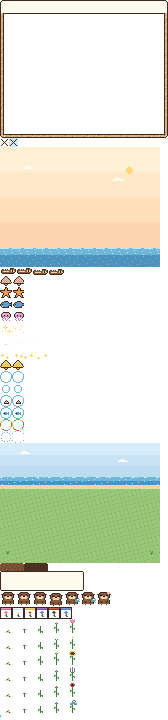
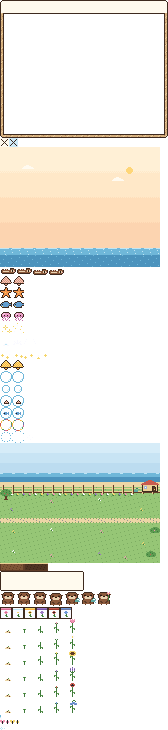
Garden: a smaller window and a livelier place
The garden opens at 3x (504x414 pt) instead of the games' 4x. The plot
gets a fence with a flower border, a shed and watering can, a little
tree, a gravel path between wooden raised beds, bushes and wildflower
clusters; clouds drift, the sea glints, two butterflies flutter, and
Pibbo potters about by himself when left alone.

diff --git a/Sources/Games/GardenGame.swift b/Sources/Games/GardenGame.swift
@@ -17,6 +17,16 @@ public struct GardenGame: Game {
     static let walkSpeed: Double = 70
     static let messageLength: Double = 2
     static let actionLength: Double = 1.2
+    /// Left alone this long, Pibbo wanders off to potter about.
+    static let wanderAfter: ClosedRange<Double> = 5...9
+    /// Spots he likes to stand: beside each bed, by the shed, on the path.
+    static let wanderSpots: [(x: Double, y: Double)] = {
+        var spots: [(x: Double, y: Double)] = plots.map { p in (x: Double(p.x - 14), y: Double(p.y - 12)) }
+        spots.append((x: 126, y: 40))
+        spots.append((x: 24, y: 102))
+        spots.append((x: 90, y: 76))
+        return spots
+    }()
 
     public let score = 0
     public let phase: GamePhase = .playing
@@ -34,18 +44,31 @@ public struct GardenGame: Game {
     private var action: (name: Int, until: Double)?  // frame of the action pose
     private var message: (key: GameText.Key, until: Double)?
     private var time: Double = 0
+    private var nextWander: Double = 6
+    private let random: (ClosedRange<Double>) -> Double
 
-    public init(store: GardenStore, clock: GardenClock = GardenClock(), weather: String? = nil, now: @escaping () -> Date = Date.init) {
+    public init(store: GardenStore, clock: GardenClock = GardenClock(), weather: String? = nil, now: @escaping () -> Date = Date.init,
+                random: @escaping (ClosedRange<Double>) -> Double = { Double.random(in: $0) }) {
         self.store = store
         self.clock = clock
         self.weather = weather
         self.now = now
+        self.random = random
         state = store.load()
     }
 
     public mutating func step(_ input: GameInput, dt: Double) {
         time += dt
-        if let tap = input.tap { handle(tap) }
+        if let tap = input.tap {
+            handle(tap)
+            nextWander = time + random(Self.wanderAfter)
+        }
+        if target == nil, action == nil, picking == nil, time >= nextWander {
+            // Nobody about: he potters off somewhere in the garden.
+            let index = min(Int(random(0...0.999) * Double(Self.wanderSpots.count)), Self.wanderSpots.count - 1)
+            target = Self.wanderSpots[index]
+            nextWander = time + random(Self.wanderAfter)
+        }
         if let (tx, ty) = target {
             let dx = tx - pibbo.x, dy = ty - pibbo.y
             let distance = (dx * dx + dy * dy).squareRoot()
@@ -110,6 +133,15 @@ public struct GardenGame: Game {
         var scene = GameScene(background: "background")
         scene.showsBest = false
         let at = now()
+        // Life that needs no state: clouds drifting, glints on the sea.
+        for (k, base) in [20.0, 110.0].enumerated() {
+            let drift: Double = base + time * (1.5 + Double(k))
+            let x = Int(drift.truncatingRemainder(dividingBy: 176)) - 12
+            scene.sprites.append(GameSprite("cloud", x: x, y: 6 + k * 10))
+        }
+        for (k, x) in [18, 57, 96, 128].enumerated() {
+            scene.sprites.append(GameSprite("glint", frame: Int(time * 1.5 + Double(k) * 0.7) % 3 == 0 ? 0 : 1, x: x, y: 31 + (k % 2) * 3))
+        }
         for (i, p) in Self.plots.enumerated() {
             let plot = state.plots[i]
             let wet = plot.map { GardenRules.wateredToday($0, now: at, clock: clock) } ?? false
@@ -118,6 +150,17 @@ public struct GardenGame: Game {
                 scene.sprites.append(GameSprite(plot.kind.rawValue, frame: GardenRules.stage(plot, now: at, clock: clock),
                                                 x: p.x + 4, y: p.y - 12))
             }
+        }
+        // Two butterflies fluttering over the beds.
+        for k in 0..<2 {
+            let phase = Double(k) * 2.4
+            let wide: Double = 50 * sin(time * 0.35 + phase)
+            let flit: Double = 8 * sin(time * 1.7 + phase)
+            let rise: Double = 18 * sin(time * 0.5 + phase * 1.3)
+            let flap: Double = 3 * sin(time * 4 + phase)
+            let x = Int(70 + wide + flit)
+            let y = Int(66 + rise + flap)
+            scene.sprites.append(GameSprite("butterfly", frame: k * 2 + Int(time * 7 + phase) % 2, x: x, y: y))
         }
         // Pibbo's frames: 0-1 idle, 2-3 walking, 4-5 watering, 6 holding a flower.
         let frame: Int

diff --git a/Sources/GameWindow/GameController.swift b/Sources/GameWindow/GameController.swift
@@ -119,7 +119,8 @@ private final class OpenGame {
         session = GameSession(game: game, best: best)
         savedBest = best
         self.art = art
-        let scale = Self.scale(for: art.chromeSize)
+        // The garden is a quiet place to visit: a smaller window than the games'.
+        let scale = Self.scale(for: art.chromeSize, largest: id == GardenGame.id ? 3 : 4)
         view = GameView(scale: scale, sheet: art.sheet)
         window = GameWindow(size: view.frame.size)
         window.contentView = view
@@ -150,9 +151,9 @@ private final class OpenGame {
     }
 
     /// The largest integer scale (4× at most, 2× at least) that fits the screen above the pool.
-    private static func scale(for size: CGSize) -> Int {
-        guard let visible = NSScreen.screens.first?.visibleFrame else { return 4 }
-        for scale in stride(from: 4, through: 2, by: -1) {
+    private static func scale(for size: CGSize, largest: Int) -> Int {
+        guard let visible = NSScreen.screens.first?.visibleFrame else { return largest }
+        for scale in stride(from: largest, through: 2, by: -1) {
             if size.width * CGFloat(scale) <= visible.width - 16 && size.height * CGFloat(scale) <= visible.height - 96 {
                 return scale
             }

diff --git a/Tools/generate_sprites.py b/Tools/generate_sprites.py
@@ -2821,39 +2821,106 @@ FLOWER_COLORS = {  # kind -> (main, dark, centre)
 
 
 def garden_background():
-    """Sky, a strip of sea, a sandy edge and a grassy plot."""
+    """Sky, a strip of sea, sand, a little fence, the shed, a stone path,
+    bushes and wildflowers on the grass. Clouds and glints are sprites (they move)."""
     img = Image.new("RGBA", (GAME_W, GAME_H), (0, 0, 0, 255))
     px = img.load()
     sky = [(214, 236, 248), (200, 228, 244), (188, 220, 240)]
     for y in range(GAME_H):
         for x in range(GAME_W):
-            if y < 34:
-                c = sky[min(y * 3 // 34, 2)]
-            elif y < 42:
-                c = PALETTE["W"] if y == 34 and (x // 3) % 4 == 0 else PALETTE["w"] if y < 38 else PALETTE["x"]
-                if (x * 7 + y * 11) % 31 == 0:
-                    c = PALETTE["W"]
-            elif y < 46:
+            if y < 30:
+                c = sky[min(y * 3 // 30, 2)]
+            elif y < 39:
+                c = PALETTE["W"] if y == 30 and (x // 3) % 4 == 0 else PALETTE["w"] if y < 34 else PALETTE["x"]
+            elif y < 44:
                 c = GARDEN_PALETTE["3"]
             else:
                 c = GARDEN_PALETTE["2"] if (x * 5 + y * 3) % 17 == 0 else GARDEN_PALETTE["1"]
             px[x, y] = c + (255,)
-    cloud = ["...XXX....", ".XXXXXXX..", "XXXXXXXXXX"]
-    img.alpha_composite(to_image(cloud, {"X": (250, 252, 255)}), (20, 8))
-    img.alpha_composite(to_image(cloud, {"X": (250, 252, 255)}), (118, 16))
-    for x0 in (6, 150):  # little tufts at the edges
-        img.alpha_composite(to_image(["k.k", ".kk", "kKk"], GARDEN_PALETTE), (x0, 108))
+    # the fence between the sand and the grass
+    for x in range(0, GAME_W):
+        for y in (45, 48):
+            px[x, y] = GARDEN_PALETTE["U"] + (255,)
+        px[x, y + 1] = PALETTE["D"] + (255,)
+    for x in range(2, GAME_W, 10):
+        for y in range(42, 51):
+            px[x, y] = GARDEN_PALETTE["U"] + (255,)
+            px[x + 1, y] = PALETTE["D"] + (255,)
+    # a border of little flowers along the fence
+    for i, x in enumerate(range(4, GAME_W - 24, 6)):
+        c = "fXm8"[i % 4]
+        for (dy, dx, ch) in ((51, 0, "k"), (52, 1, "K"), (50, 1, c), (51, 1, c), (51, 2, c), (52, 0, "k")):
+            px[x + dx, dy] = GARDEN_PALETTE[ch] + (255,)
+    # a gravel path between the two rows of beds
+    for y in range(75, 80):
+        for x in range(0, GAME_W):
+            edge = y in (75, 79)
+            c = "2" if edge and (x % 3 == 0) else "3"
+            if not edge and (x * 7 + y * 5) % 13 == 0:
+                c = "r"
+            px[x, y] = GARDEN_PALETTE[c] + (255,)
+    # a little tree on the left
+    tree = [
+        "....kkkk....",
+        "..kkkkKkkk..",
+        ".kkKkkkkkKk.",
+        "kkkkkkKkkkkk",
+        "kKkkMkkkkKkk",
+        ".kkkkkkMkkk.",
+        "..kkKkkkkk..",
+        "....kDDk....",
+        ".....DD.....",
+        ".....DD.....",
+        "....DDDD....",
+    ]
+    img.alpha_composite(to_image(tree, GARDEN_PALETTE), (0, 46))
+    # the shed, top right, with a watering can beside it
+    shed = [
+        ".......MMMM.......",
+        ".....MMMMMMMM.....",
+        "...MMMMMMMMMMMM...",
+        ".MMMMMMMMMMMMMMMM.",
+        "MMMMMMMMMMMMMMMMMM",
+        ".oUUUUUUUUUUUUUUo.",
+        ".oUzzzUUUUUoooUUo.",
+        ".oUzXzUUUUUoDDoUo.",
+        ".oUzzzUUUUUoDDoUo.",
+        ".oUUUUUUUUUoDmoUo.",
+        ".oUUUUUUUUUoDDoUo.",
+        ".oooooooooooooooo.",
+    ]
+    img.alpha_composite(to_image(shed, GARDEN_PALETTE), (141, 37))
+    img.alpha_composite(to_image(["..GG.", ".g..g", "gggg.", "gggg."], GARDEN_PALETTE), (134, 45))
+    # bushes at the right edge
+    bush = ["...kkkk...", ".kkkKkkkk.", "kkkkkkKkkk", "kKkkfkkkkk", "kkkkkkkKkk", ".kkKkkkkk."]
+    img.alpha_composite(to_image(bush, GARDEN_PALETTE), (150, 84))
+    img.alpha_composite(to_image([r.replace("f", "M") for r in bush], GARDEN_PALETTE), (146, 108))
+    # clusters of wildflowers away from the beds and the path
+    for (x, y, c) in ((50, 58, "f"), (98, 56, "X"), (140, 66, "m"), (10, 66, "8"), (50, 86, "X"), (100, 88, "f"),
+                      (142, 100, "m"), (50, 112, "f"), (98, 110, "8"), (12, 108, "X"), (124, 114, "f"), (12, 88, "m")):
+        for dx, dy in ((0, 0), (2, 1), (1, -1)):
+            px[x + dx, y + dy] = GARDEN_PALETTE[c] + (255,)
+        px[x + 1, y + 1] = GARDEN_PALETTE["K"] + (255,)
     return img
 
 
 def garden_soil(wet):
+    """A raised bed: wooden planks round the soil."""
     a, b = ("6", "7") if wet else ("4", "5")
     rows = []
     for r in range(8):
-        row = "".join(b if (c * 3 + r * 5) % 7 == 0 else a for c in range(24))
         if r == 0:
-            row = "." + row[1:-1] + "."
-        rows.append(row)
+            rows.append("U" * 24)
+        elif r == 7:
+            rows.append("D" * 24)
+        else:
+            rows.append("D" + "".join(b if (c * 3 + r * 5) % 7 == 0 else a for c in range(22)) + "D")
+    return to_image(rows, GARDEN_PALETTE)
+
+
+def garden_butterfly(color, open_):
+    rows = [f"{color}{color}.{color}{color}", f"{color}{color}q{color}{color}", f".{color}q{color}.", "..q.."] if open_ else \
+           ["..q..", f".{color}q{color}.", f".{color}q{color}.", "..q.."]
     return to_image(rows, GARDEN_PALETTE)
 
 
@@ -2953,6 +3020,10 @@ def garden_items():
              ("seeds", [garden_seed_packet(k) for k in FLOWER_COLORS])]
     items += [(kind, [garden_plant(kind, s) for s in range(5)]) for kind in FLOWER_COLORS]
     items += [("rain", [to_image(["w", "w", "W"], GARDEN_PALETTE)]), ("snow", [to_image(["XX", "XX"], GARDEN_PALETTE)])]
+    items += [("butterfly", [garden_butterfly("f", True), garden_butterfly("f", False),
+                             garden_butterfly("m", True), garden_butterfly("m", False)]),
+              ("cloud", [to_image(["...XXX....", ".XXXXXXX..", "XXXXXXXXXX"], {"X": (250, 252, 255)})]),
+              ("glint", [to_image([".W.", "WXW", ".W."], GARDEN_PALETTE), to_image(["...", ".W.", "..."], GARDEN_PALETTE)])]
     return items
 
 

diff --git a/CLAUDE.md b/CLAUDE.md
@@ -157,7 +157,7 @@ While Pibbo sleeps (user away), every 4–8 min a thought bubble shows for 5 s w
 
 ### Pibbo's garden (v2.3, approved 2026-11-21)
 
-The pool's flower felt one-note once it bloomed, so the growing moved into a place of its own (the developer's idea, after PvZ's zen garden). `Garden 🌷` in the click menu opens a garden window, built on the games' window (same frame, frame loop only while open, everything released on close; measured 0 idle wakeups and unchanged memory after opening and closing it): a seaside plot with six patches of soil, Pibbo on land walking to whatever you tap. Tap an empty patch → a seed picker with six packets (tulip, daisy, sunflower, lavender, poppy, bluebell, all available from the start: no unlocking, no collecting); tap a growing plant → water it (dark soil, `Splash! 🫧`); tap a flower in bloom → pick it (`For the pool 🌷`), and the plant goes back to a bud and blooms again in a day or two. Flowers grow with real days through five stages (seed, sprout, leaves, bud, bloom; 3–7 days by kind); a day it was watered counts half a day extra, at most once a day. **Nothing ever wilts and nothing needs doing** (no pet stats). Rain and snow fall over the garden when they do outside. Rules in `Games/GardenRules` and `Games/GardenGame` (tested); the app keeps the state as JSON in UserDefaults (`garden.v1`; `--demo` uses `garden.demo` and 30 s days, so trying it never touches the real garden). While it's open Brain's `.gardenChanged` keeps him away from the pool (hidden, quiet); back, if a flower was picked he waters it in the pot for 5 s.
+The pool's flower felt one-note once it bloomed, so the growing moved into a place of its own (the developer's idea, after PvZ's zen garden). `Garden 🌷` in the click menu opens a garden window, built on the games' window (same frame, frame loop only while open, everything released on close; measured 0 idle wakeups and unchanged memory after opening and closing it), smaller than the games' (3× at most, 504×414 pt: the developer found 4× too big): a seaside plot with a fence and a border of little flowers, a shed with a watering can, a little tree, a gravel path between six wooden raised beds, bushes and wildflowers; clouds drift, glints twinkle on the sea and two butterflies flutter over the beds (worked out from the time, no state); Pibbo on land walks to whatever you tap, and left alone for 5–9 s he potters off to a spot of his own. Tap an empty patch → a seed picker with six packets (tulip, daisy, sunflower, lavender, poppy, bluebell, all available from the start: no unlocking, no collecting); tap a growing plant → water it (dark soil, `Splash! 🫧`); tap a flower in bloom → pick it (`For the pool 🌷`), and the plant goes back to a bud and blooms again in a day or two. Flowers grow with real days through five stages (seed, sprout, leaves, bud, bloom; 3–7 days by kind); a day it was watered counts half a day extra, at most once a day. **Nothing ever wilts and nothing needs doing** (no pet stats). Rain and snow fall over the garden when they do outside. Rules in `Games/GardenRules` and `Games/GardenGame` (tested); the app keeps the state as JSON in UserDefaults (`garden.v1`; `--demo` uses `garden.demo` and 30 s days, so trying it never touches the real garden). While it's open Brain's `.gardenChanged` keeps him away from the pool (hidden, quiet); back, if a flower was picked he waters it in the pot for 5 s.
 
 **The pool keeps its rocks** (they carry props, the bottle, the seagull's feather, decor, seasons): the pot shows the last flower picked in the garden (`potFlowers` in the skin: plain / autumn / winter frames per kind), and the growing flower of before only until the first pick. `--game garden` opens it 2 s after launch.
 
